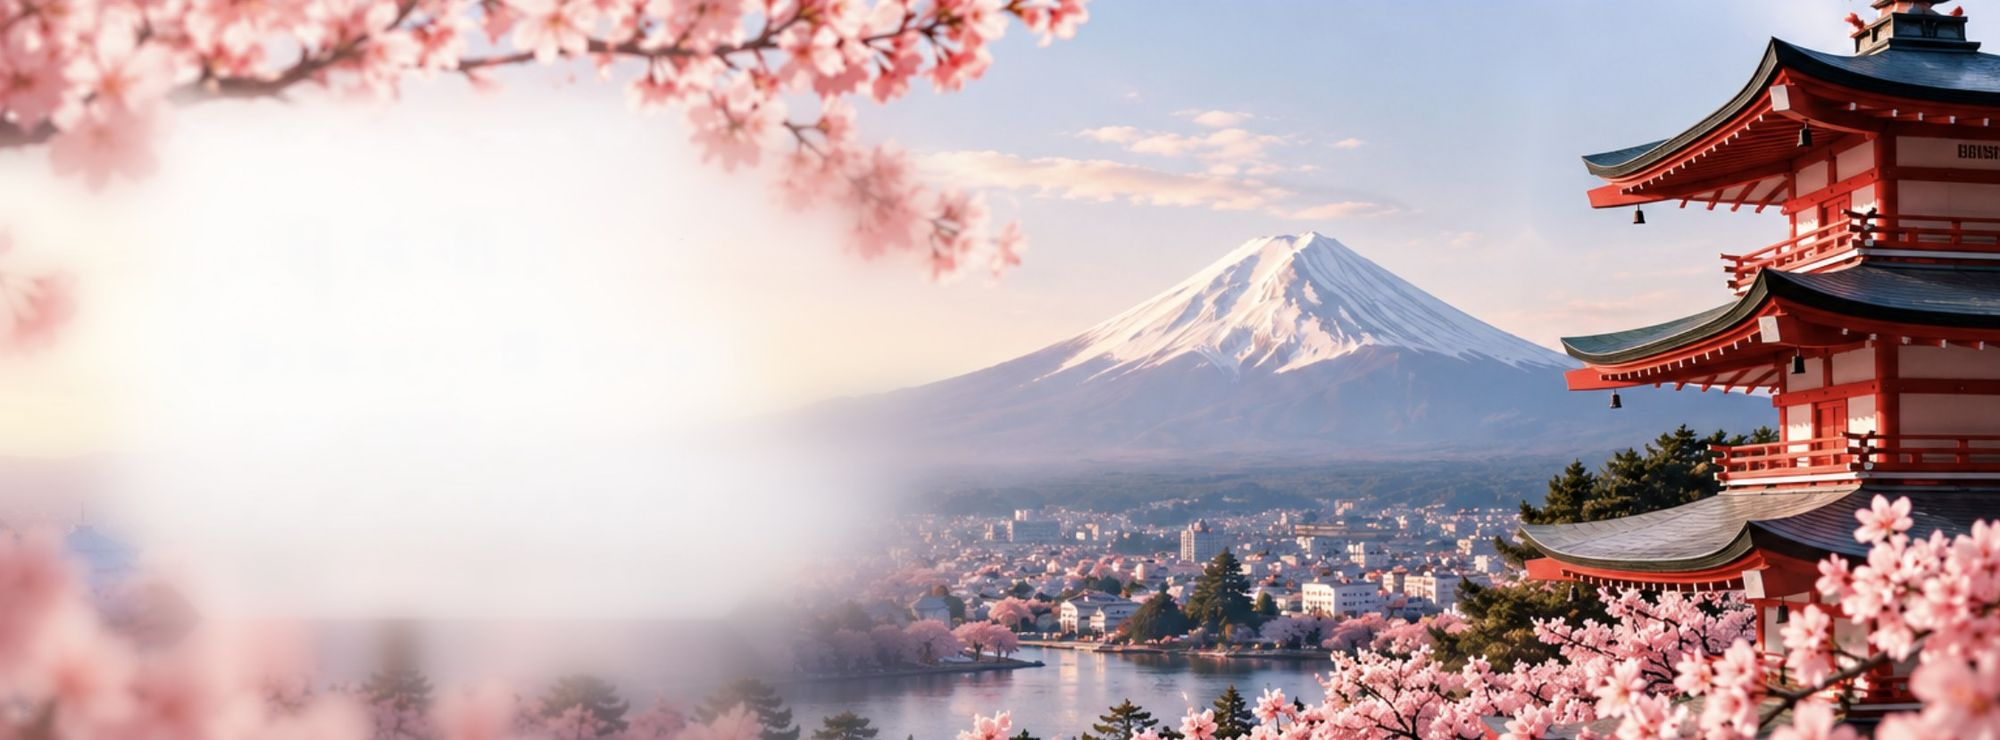
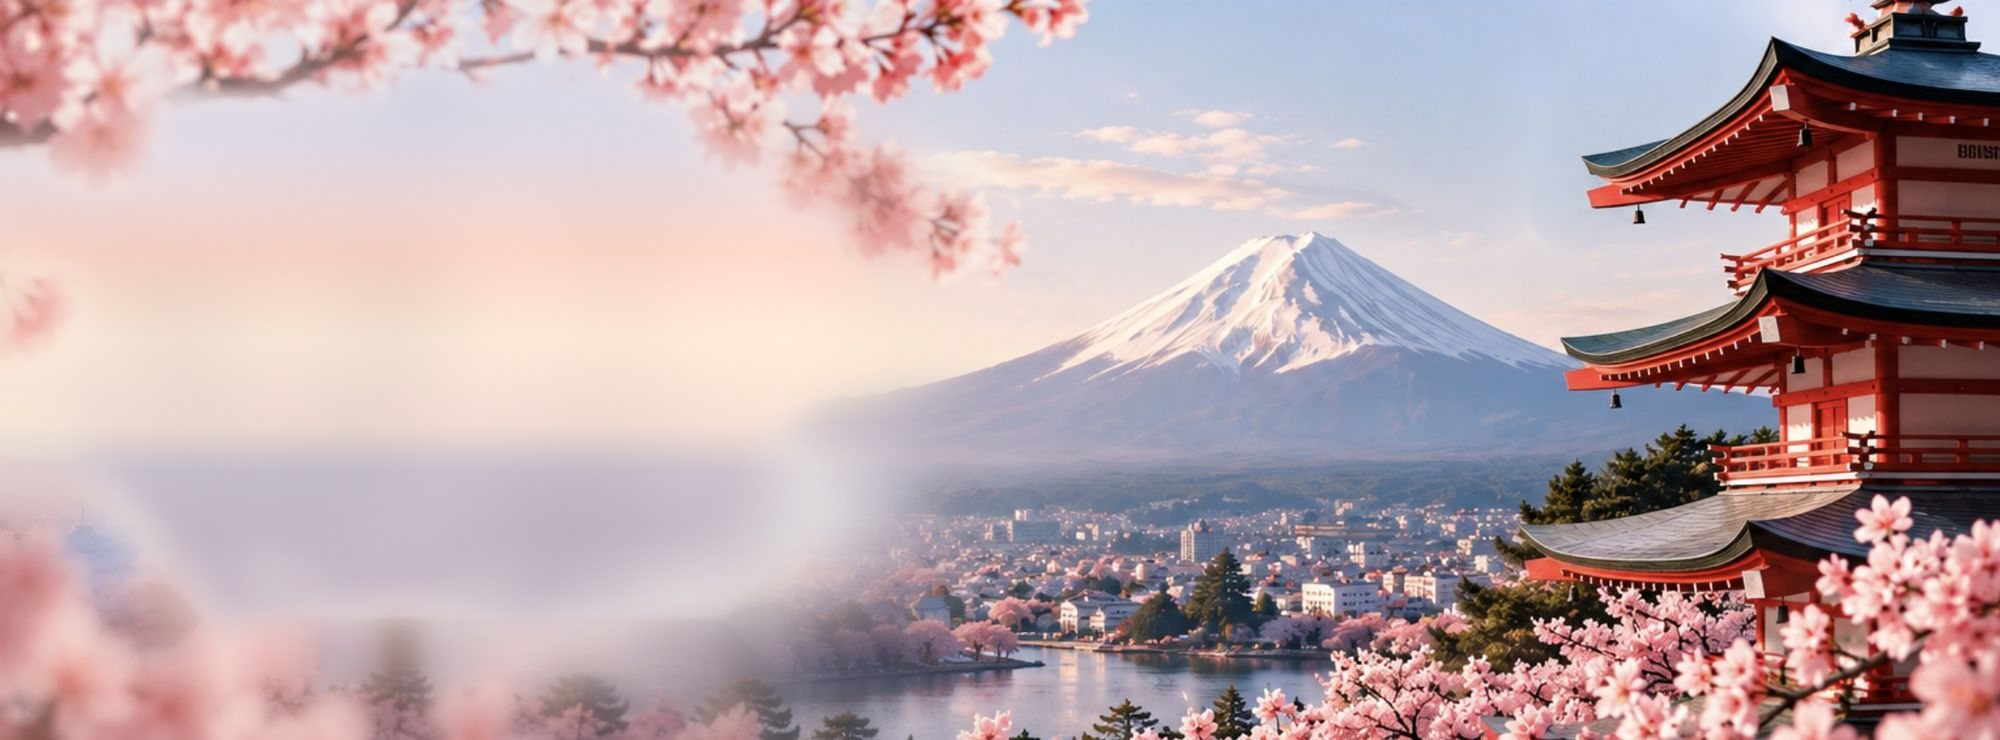
Remove haze from hero: rebuild sky behind the text and lighten overlay
Claude-Session: https://claude.ai/code/session_01XFB8Nz9qTtyziLiCEZJkA4

Changed region(s): [[0.0, 0.0311, 0.403, 0.8392]]

diff --git a/index.html b/index.html
@@ -5,7 +5,7 @@
 <link rel="preload" as="image" href="hero.jpg" fetchpriority="high">
 <script type="application/ld+json">{"@context":"https://schema.org","@type":"TravelAgency","name":"Asya Ararat Travel","url":"https://elhakobyan.github.io/asya-ararat-travel/","logo":"https://elhakobyan.github.io/asya-ararat-travel/logo-emblem.png","image":"https://elhakobyan.github.io/asya-ararat-travel/og-image.jpg","description":"Asya Ararat Travel organizes unique tours to Japan: Tokyo, Kyoto, Mount Fuji and traditional Japan. Carefully designed itineraries, local experience and full support from planning to travel.","areaServed":"Japan","telephone":"+37493108303"}</script><style>
 :root{--navy:#102a48;--red:#c9262e;--muted:#617080;--cream:#fff9f6}*{box-sizing:border-box}html{scroll-behavior:smooth}body{margin:0;font-family:Arial,Helvetica,sans-serif;color:var(--navy);background:#fff}h1,h2,h3{font-family:Georgia,"Times New Roman",serif}a{color:inherit;text-decoration:none}.wrap{width:min(1320px,86%);margin:auto}header{position:sticky;top:0;z-index:10;background:#fff;box-shadow:0 2px 17px #0b27461a}.bar{display:flex;align-items:center;justify-content:space-between;gap:22px;min-height:88px}.brand{display:flex;align-items:center;gap:10px;white-space:nowrap}.mark{width:94px;height:68px;object-fit:contain;object-position:center}.brandname{font:700 24px Georgia,serif;letter-spacing:-1px}.brandname em{color:var(--red);font-style:normal}.brandname small{display:block;font:11px Arial;letter-spacing:7px;text-align:center;margin-top:3px}nav{display:flex;align-items:center;gap:28px;font-size:14px}nav a:hover{color:var(--red)}.actions{display:flex;align-items:center;gap:12px}.lang{padding:10px 8px;border:1px solid #e1e4e8;border-radius:9px;background:#fff;color:var(--navy)}button,.btn{font:600 14px Arial;cursor:pointer}.btn{display:inline-flex;align-items:center;justify-content:center;padding:17px 28px;background:var(--red);border:0;color:#fff;border-radius:50px;transition:.2s}.btn:hover{background:#a71c23}.menu{display:none;border:0;background:none;color:var(--navy);font-size:28px}.hero{min-height:570px;display:flex;align-items:center;background:linear-gradient(90deg,#fff8f1b8 0%,#fff8f18c 30%,#fff8f100 62%),url("hero.jpg") center 50%/cover,url("https://images.unsplash.com/photo-1493976040374-85c8e12f0c0e?auto=format&fit=crop&w=2200&q=90") center/cover}.hero-inner{padding:60px 0;position:relative;z-index:1}.eyebrow{text-transform:uppercase;letter-spacing:4px;font-size:12px;font-weight:600}.hero h1{font-size:clamp(76px,10vw,122px);line-height:1;margin:15px 0 8px;letter-spacing:-4px}.hero h2{font-size:clamp(31px,4.4vw,56px);line-height:1.04;max-width:600px;margin:0 0 18px;font-weight:400}.hero p{max-width:550px;font-size:17px;line-height:1.6;margin-bottom:29px}.strip{background:#fff;border-bottom:1px solid #eee;padding:22px 0}.perks{display:grid;grid-template-columns:repeat(4,1fr);gap:18px}.perk{display:flex;align-items:center;gap:14px;padding:4px 0 4px 16px;border-right:1px solid #ededed}.perk:last-child{border-right:0}.symbol{width:58px;height:58px;flex-shrink:0;background:#fae9e7;border-radius:50%;display:grid;place-items:center;color:var(--red);font-size:27px}.perk h3{font-size:18px;margin:0 0 5px}.perk p{font-size:13px;color:var(--muted);margin:0}.section{padding:72px 0;background:#fff}.section.alt{background:var(--cream)}.heading{display:flex;justify-content:space-between;align-items:center;gap:15px;margin-bottom:29px}.heading h2{font-size:clamp(32px,4vw,47px);margin:0}.heading a{font-size:15px;color:var(--red);font-weight:bold}.cards{display:grid;grid-template-columns:repeat(4,1fr);gap:16px}.card{border-radius:10px;background:#fff;overflow:hidden;box-shadow:0 5px 25px #102a4810}.card img{width:100%;height:205px;object-fit:cover;display:block}.card .body{padding:18px}.card h3{font-size:22px;margin:0 0 9px}.card p{font-size:14px;line-height:1.65;color:var(--muted);min-height:68px}.card a{font-size:13px;color:var(--red);font-weight:bold}.aboutgrid,.contactgrid{display:grid;grid-template-columns:1fr 1fr;align-items:center;gap:70px}.aboutgrid img{width:100%;height:390px;border-radius:12px;object-fit:cover}.aboutgrid h2,.contactgrid h2{font-size:clamp(34px,4vw,50px);margin:10px 0 19px}.aboutgrid p,.contactgrid p{line-height:1.8;color:var(--muted)}.form{background:#fff;padding:32px;border-radius:14px;box-shadow:0 8px 35px #102a4814}.form label{display:block;font-weight:600;font-size:13px;margin:0 0 7px}.field{margin-bottom:16px}.form input,.form textarea,.form select{width:100%;border:1px solid #dce1e5;border-radius:8px;padding:13px;font:15px Arial;color:var(--navy);background:#fff}.form textarea{min-height:95px;resize:vertical}.small{font-size:12px;color:var(--muted);line-height:1.6}footer{padding:38px 0;background:var(--navy);color:#fff}footer .wrap{display:flex;justify-content:space-between;align-items:center;gap:20px}footer small{color:#c4ced8}.logo-footer{font:700 22px Georgia,serif}.logo-footer span{color:#f06a68}
-@media(max-width:1180px){nav{gap:13px}.brandname{font-size:19px}.mark{width:68px}.bar{gap:10px}.cards{grid-template-columns:repeat(2,1fr)}}@media(max-width:830px){.menu{display:block}nav{display:none;position:absolute;top:80px;left:0;right:0;flex-direction:column;align-items:flex-start;padding:24px 7%;background:#fff;box-shadow:0 12px 18px #102a4822}nav.open{display:flex}.bar{min-height:80px}.actions .btn{display:none}.perks{grid-template-columns:repeat(2,1fr)}.perk:nth-child(2){border-right:0}.aboutgrid,.contactgrid{grid-template-columns:1fr;gap:28px}}@media(max-width:560px){.wrap{width:90%}.brandname{font-size:17px}.brandname small{font-size:9px;letter-spacing:5px}.mark{width:55px;height:54px}.hero{min-height:550px;background:linear-gradient(90deg,#fff8f2f2,#fff8f2a8),url("hero.jpg") center/cover,url("https://images.unsplash.com/photo-1493976040374-85c8e12f0c0e?auto=format&fit=crop&w=900&q=85") center/cover}.hero h1{font-size:78px}.hero h2{font-size:36px}.perks,.cards{grid-template-columns:1fr}.perk{border-right:0}.card img{height:240px}.section{padding:55px 0}.heading{align-items:flex-start;flex-direction:column}.aboutgrid img{height:260px}.form{padding:20px}footer .wrap{flex-direction:column;align-items:flex-start}}
+@media(max-width:1180px){nav{gap:13px}.brandname{font-size:19px}.mark{width:68px}.bar{gap:10px}.cards{grid-template-columns:repeat(2,1fr)}}@media(max-width:830px){.menu{display:block}nav{display:none;position:absolute;top:80px;left:0;right:0;flex-direction:column;align-items:flex-start;padding:24px 7%;background:#fff;box-shadow:0 12px 18px #102a4822}nav.open{display:flex}.bar{min-height:80px}.actions .btn{display:none}.perks{grid-template-columns:repeat(2,1fr)}.perk:nth-child(2){border-right:0}.aboutgrid,.contactgrid{grid-template-columns:1fr;gap:28px}}@media(max-width:560px){.wrap{width:90%}.brandname{font-size:17px}.brandname small{font-size:9px;letter-spacing:5px}.mark{width:55px;height:54px}.hero{min-height:550px;background:linear-gradient(90deg,#fff8f2a6 0%,#fff8f26b 26%,#fff8f200 52%),url("hero.jpg") center/cover,url("https://images.unsplash.com/photo-1493976040374-85c8e12f0c0e?auto=format&fit=crop&w=900&q=85") center/cover}.hero h1{font-size:78px}.hero h2{font-size:36px}.perks,.cards{grid-template-columns:1fr}.perk{border-right:0}.card img{height:240px}.section{padding:55px 0}.heading{align-items:flex-start;flex-direction:column}.aboutgrid img{height:260px}.form{padding:20px}footer .wrap{flex-direction:column;align-items:flex-start}}
 
 /* Match the approved editorial mockup */
 .hero{background-position:center,center,center;background-size:cover,cover,cover}.hero-inner{padding-left:12px}.strip{padding:18px 0}.heading h2{letter-spacing:-1.5px}.card{box-shadow:none}.card img{border-radius:8px 8px 0 0;height:165px}.card .body{padding:15px 3px}.card p{min-height:72px}.brandname small{color:var(--navy)}@media(min-width:900px){.hero p{max-width:480px}.hero-inner{padding-left:0}}

diff --git a/src/css/01-base.css b/src/css/01-base.css
@@ -1,2 +1,2 @@
 :root{--navy:#102a48;--red:#c9262e;--muted:#617080;--cream:#fff9f6}*{box-sizing:border-box}html{scroll-behavior:smooth}body{margin:0;font-family:Arial,Helvetica,sans-serif;color:var(--navy);background:#fff}h1,h2,h3{font-family:Georgia,"Times New Roman",serif}a{color:inherit;text-decoration:none}.wrap{width:min(1320px,86%);margin:auto}header{position:sticky;top:0;z-index:10;background:#fff;box-shadow:0 2px 17px #0b27461a}.bar{display:flex;align-items:center;justify-content:space-between;gap:22px;min-height:88px}.brand{display:flex;align-items:center;gap:10px;white-space:nowrap}.mark{width:94px;height:68px;object-fit:contain;object-position:center}.brandname{font:700 24px Georgia,serif;letter-spacing:-1px}.brandname em{color:var(--red);font-style:normal}.brandname small{display:block;font:11px Arial;letter-spacing:7px;text-align:center;margin-top:3px}nav{display:flex;align-items:center;gap:28px;font-size:14px}nav a:hover{color:var(--red)}.actions{display:flex;align-items:center;gap:12px}.lang{padding:10px 8px;border:1px solid #e1e4e8;border-radius:9px;background:#fff;color:var(--navy)}button,.btn{font:600 14px Arial;cursor:pointer}.btn{display:inline-flex;align-items:center;justify-content:center;padding:17px 28px;background:var(--red);border:0;color:#fff;border-radius:50px;transition:.2s}.btn:hover{background:#a71c23}.menu{display:none;border:0;background:none;color:var(--navy);font-size:28px}.hero{min-height:570px;display:flex;align-items:center;background:linear-gradient(90deg,#fff8f1b8 0%,#fff8f18c 30%,#fff8f100 62%),url("hero.jpg") center 50%/cover,url("https://images.unsplash.com/photo-1493976040374-85c8e12f0c0e?auto=format&fit=crop&w=2200&q=90") center/cover}.hero-inner{padding:60px 0;position:relative;z-index:1}.eyebrow{text-transform:uppercase;letter-spacing:4px;font-size:12px;font-weight:600}.hero h1{font-size:clamp(76px,10vw,122px);line-height:1;margin:15px 0 8px;letter-spacing:-4px}.hero h2{font-size:clamp(31px,4.4vw,56px);line-height:1.04;max-width:600px;margin:0 0 18px;font-weight:400}.hero p{max-width:550px;font-size:17px;line-height:1.6;margin-bottom:29px}.strip{background:#fff;border-bottom:1px solid #eee;padding:22px 0}.perks{display:grid;grid-template-columns:repeat(4,1fr);gap:18px}.perk{display:flex;align-items:center;gap:14px;padding:4px 0 4px 16px;border-right:1px solid #ededed}.perk:last-child{border-right:0}.symbol{width:58px;height:58px;flex-shrink:0;background:#fae9e7;border-radius:50%;display:grid;place-items:center;color:var(--red);font-size:27px}.perk h3{font-size:18px;margin:0 0 5px}.perk p{font-size:13px;color:var(--muted);margin:0}.section{padding:72px 0;background:#fff}.section.alt{background:var(--cream)}.heading{display:flex;justify-content:space-between;align-items:center;gap:15px;margin-bottom:29px}.heading h2{font-size:clamp(32px,4vw,47px);margin:0}.heading a{font-size:15px;color:var(--red);font-weight:bold}.cards{display:grid;grid-template-columns:repeat(4,1fr);gap:16px}.card{border-radius:10px;background:#fff;overflow:hidden;box-shadow:0 5px 25px #102a4810}.card img{width:100%;height:205px;object-fit:cover;display:block}.card .body{padding:18px}.card h3{font-size:22px;margin:0 0 9px}.card p{font-size:14px;line-height:1.65;color:var(--muted);min-height:68px}.card a{font-size:13px;color:var(--red);font-weight:bold}.aboutgrid,.contactgrid{display:grid;grid-template-columns:1fr 1fr;align-items:center;gap:70px}.aboutgrid img{width:100%;height:390px;border-radius:12px;object-fit:cover}.aboutgrid h2,.contactgrid h2{font-size:clamp(34px,4vw,50px);margin:10px 0 19px}.aboutgrid p,.contactgrid p{line-height:1.8;color:var(--muted)}.form{background:#fff;padding:32px;border-radius:14px;box-shadow:0 8px 35px #102a4814}.form label{display:block;font-weight:600;font-size:13px;margin:0 0 7px}.field{margin-bottom:16px}.form input,.form textarea,.form select{width:100%;border:1px solid #dce1e5;border-radius:8px;padding:13px;font:15px Arial;color:var(--navy);background:#fff}.form textarea{min-height:95px;resize:vertical}.small{font-size:12px;color:var(--muted);line-height:1.6}footer{padding:38px 0;background:var(--navy);color:#fff}footer .wrap{display:flex;justify-content:space-between;align-items:center;gap:20px}footer small{color:#c4ced8}.logo-footer{font:700 22px Georgia,serif}.logo-footer span{color:#f06a68}
-@media(max-width:1180px){nav{gap:13px}.brandname{font-size:19px}.mark{width:68px}.bar{gap:10px}.cards{grid-template-columns:repeat(2,1fr)}}@media(max-width:830px){.menu{display:block}nav{display:none;position:absolute;top:80px;left:0;right:0;flex-direction:column;align-items:flex-start;padding:24px 7%;background:#fff;box-shadow:0 12px 18px #102a4822}nav.open{display:flex}.bar{min-height:80px}.actions .btn{display:none}.perks{grid-template-columns:repeat(2,1fr)}.perk:nth-child(2){border-right:0}.aboutgrid,.contactgrid{grid-template-columns:1fr;gap:28px}}@media(max-width:560px){.wrap{width:90%}.brandname{font-size:17px}.brandname small{font-size:9px;letter-spacing:5px}.mark{width:55px;height:54px}.hero{min-height:550px;background:linear-gradient(90deg,#fff8f2f2,#fff8f2a8),url("hero.jpg") center/cover,url("https://images.unsplash.com/photo-1493976040374-85c8e12f0c0e?auto=format&fit=crop&w=900&q=85") center/cover}.hero h1{font-size:78px}.hero h2{font-size:36px}.perks,.cards{grid-template-columns:1fr}.perk{border-right:0}.card img{height:240px}.section{padding:55px 0}.heading{align-items:flex-start;flex-direction:column}.aboutgrid img{height:260px}.form{padding:20px}footer .wrap{flex-direction:column;align-items:flex-start}}
+@media(max-width:1180px){nav{gap:13px}.brandname{font-size:19px}.mark{width:68px}.bar{gap:10px}.cards{grid-template-columns:repeat(2,1fr)}}@media(max-width:830px){.menu{display:block}nav{display:none;position:absolute;top:80px;left:0;right:0;flex-direction:column;align-items:flex-start;padding:24px 7%;background:#fff;box-shadow:0 12px 18px #102a4822}nav.open{display:flex}.bar{min-height:80px}.actions .btn{display:none}.perks{grid-template-columns:repeat(2,1fr)}.perk:nth-child(2){border-right:0}.aboutgrid,.contactgrid{grid-template-columns:1fr;gap:28px}}@media(max-width:560px){.wrap{width:90%}.brandname{font-size:17px}.brandname small{font-size:9px;letter-spacing:5px}.mark{width:55px;height:54px}.hero{min-height:550px;background:linear-gradient(90deg,#fff8f2a6 0%,#fff8f26b 26%,#fff8f200 52%),url("hero.jpg") center/cover,url("https://images.unsplash.com/photo-1493976040374-85c8e12f0c0e?auto=format&fit=crop&w=900&q=85") center/cover}.hero h1{font-size:78px}.hero h2{font-size:36px}.perks,.cards{grid-template-columns:1fr}.perk{border-right:0}.card img{height:240px}.section{padding:55px 0}.heading{align-items:flex-start;flex-direction:column}.aboutgrid img{height:260px}.form{padding:20px}footer .wrap{flex-direction:column;align-items:flex-start}}
